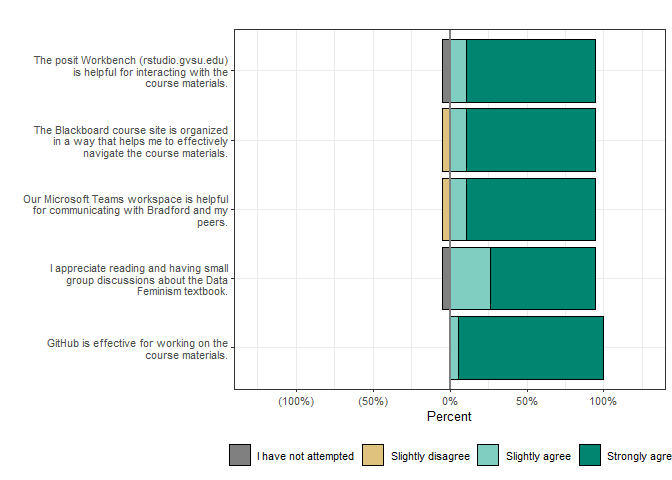
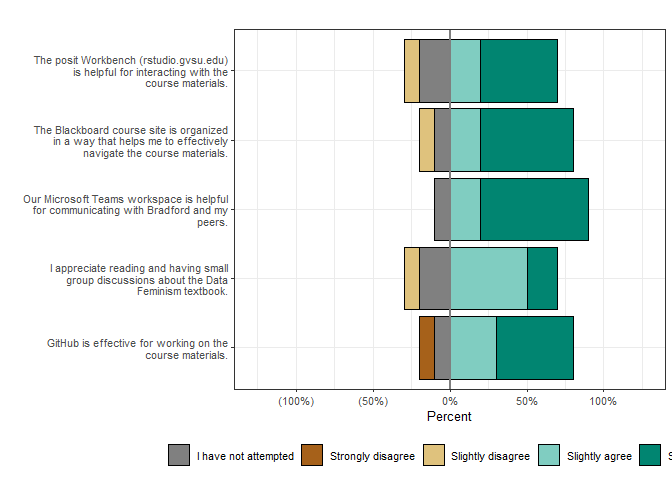
Update SS24

Changed region(s): [[0.5938, 0.0625, 0.9062, 0.8125], [0.25, 0.9062, 1.0, 0.9688]]

diff --git a/README.md b/README.md
@@ -14,6 +14,10 @@ library(ggwordcloud)
 # However, the string here is from the Google Sheet's url - between the "/d/" and "/edit..."
 sta631_evals <- googlesheets4::read_sheet("https://docs.google.com/spreadsheets/d/1tNzCYJLHRVUsadfUBO3YDz_n8zxIzv87G7_Ml92Knzg/edit?resourcekey#gid=1815260115")
 
+# Get submissions after start of this semester
+sta631_evals <- sta631_evals %>%
+  filter(Timestamp > "2024-05-31")
+
 # Create scales and color palettes
 effort_scale <- c("I have not attempted", "Less than 50%", "More than 50%, but not everything", "Essentially 100%")
 attempt_scale <- c("I have not attempted", "I have attempted")
@@ -39,25 +43,26 @@ likert_info <- tibble(
 )
 ```
 
-This report was generated with **19 responses**.
+This report was generated with **10 responses**.
 
 ``` r
-# Bar chart of sections
+# Bar chart of check-in
 sta631_evals %>% 
-  group_by(`What section are you in?`) %>% 
+  group_by(`Check-in [In general, how are you doing?]`) %>% 
   summarise(n = n()) %>% 
   mutate(perc = n / sum(n)) %>% 
   ggplot() +
-  geom_col(aes(y = `What section are you in?`,
+  geom_col(aes(y = `Check-in [In general, how are you doing?]`,
                x = perc)) +
   theme_bw() +
+  theme(axis.text.y = element_text(size = 16, vjust = 0.25)) +
   scale_x_continuous(labels = scales::label_percent()) +
-  labs(title = "What section are you in?",
+  labs(title = "In general, how are you doing?",
        y = "",
        x = "Percent")
 ```
 
-![](README_files/figure-gfm/sections-1.png)<!-- -->
+![](README_files/figure-gfm/check-in-1.png)<!-- -->
 
 ## Your Engagement
 
@@ -77,12 +82,13 @@ effort_summary <- sta631_evals %>%
 
 # Add color column
 effort <- effort_summary %>% 
-  left_join(effort_info, by = c("response" = "scale"))
+  left_join(effort_info, by = c("response" = "scale")) %>% 
+  mutate(color = fct_rev(factor(color, levels = effort_info %>% pull(color))))
 
 # PLOT!!!!
 effort %>% 
   ggplot() +
-  geom_bar(aes(y = str_wrap(item, width = 40), x = perc, fill = color),
+  geom_bar(aes(y = str_wrap(item, width = 30), x = perc, fill = color),
            position = "stack", stat = "identity") +
   labs(y = "",
        x = "Percent") +
@@ -94,7 +100,7 @@ effort %>%
   theme_bw() +
   theme(legend.position="bottom",
         legend.box="horizontal",
-        legend.text = element_text(size = 8))
+        legend.text = element_text(size = 5))
 ```
 
 ![](README_files/figure-gfm/effort-1.png)<!-- -->
@@ -115,7 +121,8 @@ help_summary <- sta631_evals %>%
 
 # Add color column
 help <- help_summary %>% 
-  left_join(attempt_info, by = c("response" = "scale"))
+  left_join(attempt_info, by = c("response" = "scale")) %>% 
+  mutate(color = fct_rev(factor(color, levels = attempt_info %>% pull(color))))
 
 # PLOT!!!!
 help %>% 
@@ -151,7 +158,8 @@ course_summary <- sta631_evals %>%
 
 course <- course_summary %>% 
   select(-freq) %>% 
-  left_join(likert_info, by = c("response" = "scale"))
+  left_join(likert_info, by = c("response" = "scale")) %>% 
+  mutate(color = fct_rev(factor(color, levels = likert_info %>% pull(color))))
 
 course %>% 
   # Tricking ggplot2 to plot in two directions
@@ -191,7 +199,8 @@ tools_summary <- sta631_evals %>%
 
 tools <- tools_summary %>% 
   select(-freq) %>% 
-  left_join(likert_info, by = c("response" = "scale"))
+  left_join(likert_info, by = c("response" = "scale")) %>% 
+  mutate(color = fct_rev(factor(color, levels = likert_info %>% pull(color))))
 
 tools %>% 
   # Tricking ggplot2 to plot in two directions
@@ -232,7 +241,8 @@ instructor_summary <- sta631_evals %>%
 
 instructor <- instructor_summary %>% 
   select(-freq) %>% 
-  left_join(likert_info, by = c("response" = "scale"))
+  left_join(likert_info, by = c("response" = "scale")) %>% 
+  mutate(color = fct_rev(factor(color, levels = likert_info %>% pull(color))))
 
 instructor %>% 
   # Tricking ggplot2 to plot in two directions
